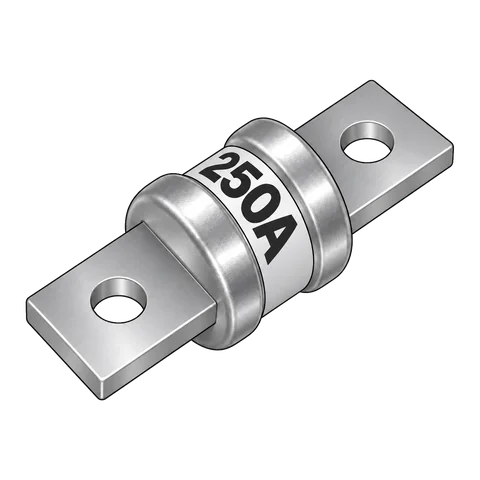
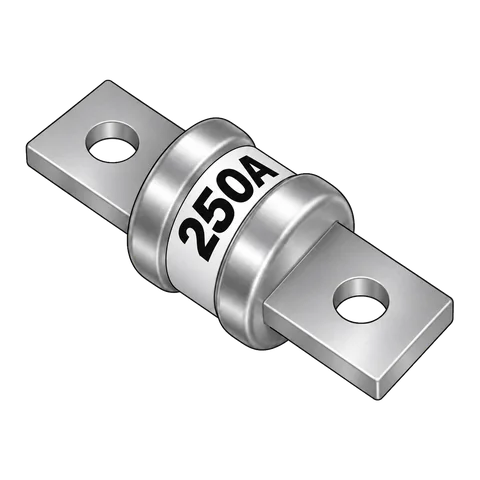
Einkaufsliste: Klasse-T-Sicherungen gedreht wie MEGA/MIDI (links oben nach rechts unten)

diff --git a/einkaufsliste.html b/einkaufsliste.html
@@ -106,7 +106,7 @@
         <div class="wrap">
           <h2>Sicherungen &amp; Halter</h2><p class="gruppe-text">Jede Leitung braucht ihre passende Sicherung.</p>
           <div class="teile-grid">
-            <article class="teil" id="l3a2c4132"><div class="teil-bild"><img src="assets/teile/l3a2c4132.webp?v=7906ca96" alt="MIDI-Sicherungshalter 4-fach mit Sammelschiene (Symbolbild)" width="480" height="480" loading="lazy"><span>Symbolbild</span></div><h3>MIDI-Sicherungshalter 4-fach mit Sammelschiene</h3><a class="product-btn" href="/go/l3a2c4132/amazon" target="_blank" rel="sponsored noopener">Bei Amazon ansehen*</a></article><article class="teil" id="l375ffab0"><div class="teil-bild"><img src="assets/teile/l375ffab0.webp?v=a38f9c33" alt="Sicherung 20 A MIDI (Symbolbild)" width="480" height="480" loading="lazy"><span>Symbolbild</span></div><h3>Sicherung 20 A MIDI</h3><a class="product-btn" href="/go/l375ffab0/amazon" target="_blank" rel="sponsored noopener">Bei Amazon ansehen*</a></article><article class="teil" id="laf25c308"><div class="teil-bild"><img src="assets/teile/laf25c308.webp?v=ab091605" alt="Sicherung 30 A MIDI (Symbolbild)" width="480" height="480" loading="lazy"><span>Symbolbild</span></div><h3>Sicherung 30 A MIDI</h3><a class="product-btn" href="/go/laf25c308/amazon" target="_blank" rel="sponsored noopener">Bei Amazon ansehen*</a></article><article class="teil" id="lafc8c0a5"><div class="teil-bild"><img src="assets/teile/lafc8c0a5.webp?v=e2af2a5c" alt="Sicherung 60 A MIDI (Symbolbild)" width="480" height="480" loading="lazy"><span>Symbolbild</span></div><h3>Sicherung 60 A MIDI</h3><a class="product-btn" href="/go/lafc8c0a5/amazon" target="_blank" rel="sponsored noopener">Bei Amazon ansehen*</a></article><article class="teil" id="l2a4fa993"><div class="teil-bild"><img src="assets/teile/l2a4fa993.webp?v=d04e5171" alt="Sicherung 80 A MIDI (Symbolbild)" width="480" height="480" loading="lazy"><span>Symbolbild</span></div><h3>Sicherung 80 A MIDI</h3><a class="product-btn" href="/go/l2a4fa993/amazon" target="_blank" rel="sponsored noopener">Bei Amazon ansehen*</a></article><article class="teil" id="l34955105"><div class="teil-bild"><img src="assets/teile/l34955105.webp?v=7470c8ed" alt="Sicherung 100 A MEGA (Symbolbild)" width="480" height="480" loading="lazy"><span>Symbolbild</span></div><h3>Sicherung 100 A MEGA</h3><a class="product-btn" href="/go/l34955105/amazon" target="_blank" rel="sponsored noopener">Bei Amazon ansehen*</a></article><article class="teil" id="l05bef916"><div class="teil-bild"><img src="assets/teile/l05bef916.webp?v=4ea3605b" alt="Sicherung 125 A MEGA (Symbolbild)" width="480" height="480" loading="lazy"><span>Symbolbild</span></div><h3>Sicherung 125 A MEGA</h3><a class="product-btn" href="/go/l05bef916/amazon" target="_blank" rel="sponsored noopener">Bei Amazon ansehen*</a></article><article class="teil" id="l0fc5cf12"><div class="teil-bild"><img src="assets/teile/l0fc5cf12.webp?v=c7ad8592" alt="Sicherung 150 A Klasse T (Symbolbild)" width="480" height="480" loading="lazy"><span>Symbolbild</span></div><h3>Sicherung 150 A Klasse T</h3><a class="product-btn" href="/go/l0fc5cf12/amazon" target="_blank" rel="sponsored noopener">Bei Amazon ansehen*</a></article><article class="teil" id="l9ac77371"><div class="teil-bild"><img src="assets/teile/l9ac77371.webp?v=2ceb6a5e" alt="Sicherung 150 A MEGA (Symbolbild)" width="480" height="480" loading="lazy"><span>Symbolbild</span></div><h3>Sicherung 150 A MEGA</h3><a class="product-btn" href="/go/l9ac77371/amazon" target="_blank" rel="sponsored noopener">Bei Amazon ansehen*</a></article><article class="teil" id="laf612964"><div class="teil-bild"><img src="assets/teile/laf612964.webp?v=8437ad65" alt="Sicherung 200 A MEGA (Symbolbild)" width="480" height="480" loading="lazy"><span>Symbolbild</span></div><h3>Sicherung 200 A MEGA</h3><a class="product-btn" href="/go/laf612964/amazon" target="_blank" rel="sponsored noopener">Bei Amazon ansehen*</a></article><article class="teil" id="l7317daa7"><div class="teil-bild"><img src="assets/teile/l7317daa7.webp?v=9c0c19fc" alt="Sicherung 225 A Klasse T (Symbolbild)" width="480" height="480" loading="lazy"><span>Symbolbild</span></div><h3>Sicherung 225 A Klasse T</h3><a class="product-btn" href="/go/l7317daa7/amazon" target="_blank" rel="sponsored noopener">Bei Amazon ansehen*</a></article><article class="teil" id="le561ec30"><div class="teil-bild"><img src="assets/teile/le561ec30.webp?v=99f95e50" alt="Sicherung 225 A MEGA (Symbolbild)" width="480" height="480" loading="lazy"><span>Symbolbild</span></div><h3>Sicherung 225 A MEGA</h3><a class="product-btn" href="/go/le561ec30/amazon" target="_blank" rel="sponsored noopener">Bei Amazon ansehen*</a></article><article class="teil" id="lfc280a8e"><div class="teil-bild"><img src="assets/teile/lfc280a8e.webp?v=1f402ada" alt="Sicherung 250 A Klasse T (Symbolbild)" width="480" height="480" loading="lazy"><span>Symbolbild</span></div><h3>Sicherung 250 A Klasse T</h3><a class="product-btn" href="/go/lfc280a8e/amazon" target="_blank" rel="sponsored noopener">Bei Amazon ansehen*</a></article><article class="teil" id="lb0905d3d"><div class="teil-bild"><img src="assets/teile/lb0905d3d.webp?v=b5d096d7" alt="Sicherung 250 A MEGA (Symbolbild)" width="480" height="480" loading="lazy"><span>Symbolbild</span></div><h3>Sicherung 250 A MEGA</h3><a class="product-btn" href="/go/lb0905d3d/amazon" target="_blank" rel="sponsored noopener">Bei Amazon ansehen*</a></article><article class="teil" id="l9b912eab"><div class="teil-bild"><img src="assets/teile/l9b912eab.webp?v=06b2e17e" alt="Sicherung 300 A MEGA (Symbolbild)" width="480" height="480" loading="lazy"><span>Symbolbild</span></div><h3>Sicherung 300 A MEGA</h3><a class="product-btn" href="/go/l9b912eab/amazon" target="_blank" rel="sponsored noopener">Bei Amazon ansehen*</a></article><article class="teil" id="lf3bb8b84"><div class="teil-bild"><img src="assets/teile/lf3bb8b84.webp?v=9d013fbc" alt="Sicherung 350 A Klasse T (Symbolbild)" width="480" height="480" loading="lazy"><span>Symbolbild</span></div><h3>Sicherung 350 A Klasse T</h3><a class="product-btn" href="/go/lf3bb8b84/amazon" target="_blank" rel="sponsored noopener">Bei Amazon ansehen*</a></article><article class="teil" id="lad38f99a"><div class="teil-bild"><img src="assets/teile/lad38f99a.webp?v=d82100f2" alt="Sicherung Klasse-T-Halter bis 200 A (Symbolbild)" width="480" height="480" loading="lazy"><span>Symbolbild</span></div><h3>Sicherung Klasse-T-Halter bis 200 A</h3><a class="product-btn" href="/go/lad38f99a/amazon" target="_blank" rel="sponsored noopener">Bei Amazon ansehen*</a></article><article class="teil" id="l50ed28ad"><div class="teil-bild"><img src="assets/teile/l50ed28ad.webp?v=d82100f2" alt="Sicherung Klasse-T-Sicherungshalter (Symbolbild)" width="480" height="480" loading="lazy"><span>Symbolbild</span></div><h3>Sicherung Klasse-T-Sicherungshalter</h3><a class="product-btn" href="/go/l50ed28ad/amazon" target="_blank" rel="sponsored noopener">Bei Amazon ansehen*</a></article><article class="teil" id="l4f0e743e"><div class="teil-bild"><img src="assets/teile/l4f0e743e.webp?v=aafb087d" alt="Sicherung MEGA-Sicherungshalter (Symbolbild)" width="480" height="480" loading="lazy"><span>Symbolbild</span></div><h3>Sicherung MEGA-Sicherungshalter</h3><a class="product-btn" href="/go/l4f0e743e/amazon" target="_blank" rel="sponsored noopener">Bei Amazon ansehen*</a></article><article class="teil" id="ld64c7f2d"><div class="teil-bild"><img src="assets/teile/ld64c7f2d.webp?v=f7b561c2" alt="Sicherung MIDI-Sicherungshalter (Symbolbild)" width="480" height="480" loading="lazy"><span>Symbolbild</span></div><h3>Sicherung MIDI-Sicherungshalter</h3><a class="product-btn" href="/go/ld64c7f2d/amazon" target="_blank" rel="sponsored noopener">Bei Amazon ansehen*</a></article>
+            <article class="teil" id="l3a2c4132"><div class="teil-bild"><img src="assets/teile/l3a2c4132.webp?v=7906ca96" alt="MIDI-Sicherungshalter 4-fach mit Sammelschiene (Symbolbild)" width="480" height="480" loading="lazy"><span>Symbolbild</span></div><h3>MIDI-Sicherungshalter 4-fach mit Sammelschiene</h3><a class="product-btn" href="/go/l3a2c4132/amazon" target="_blank" rel="sponsored noopener">Bei Amazon ansehen*</a></article><article class="teil" id="l375ffab0"><div class="teil-bild"><img src="assets/teile/l375ffab0.webp?v=a38f9c33" alt="Sicherung 20 A MIDI (Symbolbild)" width="480" height="480" loading="lazy"><span>Symbolbild</span></div><h3>Sicherung 20 A MIDI</h3><a class="product-btn" href="/go/l375ffab0/amazon" target="_blank" rel="sponsored noopener">Bei Amazon ansehen*</a></article><article class="teil" id="laf25c308"><div class="teil-bild"><img src="assets/teile/laf25c308.webp?v=ab091605" alt="Sicherung 30 A MIDI (Symbolbild)" width="480" height="480" loading="lazy"><span>Symbolbild</span></div><h3>Sicherung 30 A MIDI</h3><a class="product-btn" href="/go/laf25c308/amazon" target="_blank" rel="sponsored noopener">Bei Amazon ansehen*</a></article><article class="teil" id="lafc8c0a5"><div class="teil-bild"><img src="assets/teile/lafc8c0a5.webp?v=e2af2a5c" alt="Sicherung 60 A MIDI (Symbolbild)" width="480" height="480" loading="lazy"><span>Symbolbild</span></div><h3>Sicherung 60 A MIDI</h3><a class="product-btn" href="/go/lafc8c0a5/amazon" target="_blank" rel="sponsored noopener">Bei Amazon ansehen*</a></article><article class="teil" id="l2a4fa993"><div class="teil-bild"><img src="assets/teile/l2a4fa993.webp?v=d04e5171" alt="Sicherung 80 A MIDI (Symbolbild)" width="480" height="480" loading="lazy"><span>Symbolbild</span></div><h3>Sicherung 80 A MIDI</h3><a class="product-btn" href="/go/l2a4fa993/amazon" target="_blank" rel="sponsored noopener">Bei Amazon ansehen*</a></article><article class="teil" id="l34955105"><div class="teil-bild"><img src="assets/teile/l34955105.webp?v=7470c8ed" alt="Sicherung 100 A MEGA (Symbolbild)" width="480" height="480" loading="lazy"><span>Symbolbild</span></div><h3>Sicherung 100 A MEGA</h3><a class="product-btn" href="/go/l34955105/amazon" target="_blank" rel="sponsored noopener">Bei Amazon ansehen*</a></article><article class="teil" id="l05bef916"><div class="teil-bild"><img src="assets/teile/l05bef916.webp?v=4ea3605b" alt="Sicherung 125 A MEGA (Symbolbild)" width="480" height="480" loading="lazy"><span>Symbolbild</span></div><h3>Sicherung 125 A MEGA</h3><a class="product-btn" href="/go/l05bef916/amazon" target="_blank" rel="sponsored noopener">Bei Amazon ansehen*</a></article><article class="teil" id="l0fc5cf12"><div class="teil-bild"><img src="assets/teile/l0fc5cf12.webp?v=1a565ca0" alt="Sicherung 150 A Klasse T (Symbolbild)" width="480" height="480" loading="lazy"><span>Symbolbild</span></div><h3>Sicherung 150 A Klasse T</h3><a class="product-btn" href="/go/l0fc5cf12/amazon" target="_blank" rel="sponsored noopener">Bei Amazon ansehen*</a></article><article class="teil" id="l9ac77371"><div class="teil-bild"><img src="assets/teile/l9ac77371.webp?v=2ceb6a5e" alt="Sicherung 150 A MEGA (Symbolbild)" width="480" height="480" loading="lazy"><span>Symbolbild</span></div><h3>Sicherung 150 A MEGA</h3><a class="product-btn" href="/go/l9ac77371/amazon" target="_blank" rel="sponsored noopener">Bei Amazon ansehen*</a></article><article class="teil" id="laf612964"><div class="teil-bild"><img src="assets/teile/laf612964.webp?v=8437ad65" alt="Sicherung 200 A MEGA (Symbolbild)" width="480" height="480" loading="lazy"><span>Symbolbild</span></div><h3>Sicherung 200 A MEGA</h3><a class="product-btn" href="/go/laf612964/amazon" target="_blank" rel="sponsored noopener">Bei Amazon ansehen*</a></article><article class="teil" id="l7317daa7"><div class="teil-bild"><img src="assets/teile/l7317daa7.webp?v=7ffeb17a" alt="Sicherung 225 A Klasse T (Symbolbild)" width="480" height="480" loading="lazy"><span>Symbolbild</span></div><h3>Sicherung 225 A Klasse T</h3><a class="product-btn" href="/go/l7317daa7/amazon" target="_blank" rel="sponsored noopener">Bei Amazon ansehen*</a></article><article class="teil" id="le561ec30"><div class="teil-bild"><img src="assets/teile/le561ec30.webp?v=99f95e50" alt="Sicherung 225 A MEGA (Symbolbild)" width="480" height="480" loading="lazy"><span>Symbolbild</span></div><h3>Sicherung 225 A MEGA</h3><a class="product-btn" href="/go/le561ec30/amazon" target="_blank" rel="sponsored noopener">Bei Amazon ansehen*</a></article><article class="teil" id="lfc280a8e"><div class="teil-bild"><img src="assets/teile/lfc280a8e.webp?v=be3d97ff" alt="Sicherung 250 A Klasse T (Symbolbild)" width="480" height="480" loading="lazy"><span>Symbolbild</span></div><h3>Sicherung 250 A Klasse T</h3><a class="product-btn" href="/go/lfc280a8e/amazon" target="_blank" rel="sponsored noopener">Bei Amazon ansehen*</a></article><article class="teil" id="lb0905d3d"><div class="teil-bild"><img src="assets/teile/lb0905d3d.webp?v=b5d096d7" alt="Sicherung 250 A MEGA (Symbolbild)" width="480" height="480" loading="lazy"><span>Symbolbild</span></div><h3>Sicherung 250 A MEGA</h3><a class="product-btn" href="/go/lb0905d3d/amazon" target="_blank" rel="sponsored noopener">Bei Amazon ansehen*</a></article><article class="teil" id="l9b912eab"><div class="teil-bild"><img src="assets/teile/l9b912eab.webp?v=06b2e17e" alt="Sicherung 300 A MEGA (Symbolbild)" width="480" height="480" loading="lazy"><span>Symbolbild</span></div><h3>Sicherung 300 A MEGA</h3><a class="product-btn" href="/go/l9b912eab/amazon" target="_blank" rel="sponsored noopener">Bei Amazon ansehen*</a></article><article class="teil" id="lf3bb8b84"><div class="teil-bild"><img src="assets/teile/lf3bb8b84.webp?v=d3d69b73" alt="Sicherung 350 A Klasse T (Symbolbild)" width="480" height="480" loading="lazy"><span>Symbolbild</span></div><h3>Sicherung 350 A Klasse T</h3><a class="product-btn" href="/go/lf3bb8b84/amazon" target="_blank" rel="sponsored noopener">Bei Amazon ansehen*</a></article><article class="teil" id="lad38f99a"><div class="teil-bild"><img src="assets/teile/lad38f99a.webp?v=d82100f2" alt="Sicherung Klasse-T-Halter bis 200 A (Symbolbild)" width="480" height="480" loading="lazy"><span>Symbolbild</span></div><h3>Sicherung Klasse-T-Halter bis 200 A</h3><a class="product-btn" href="/go/lad38f99a/amazon" target="_blank" rel="sponsored noopener">Bei Amazon ansehen*</a></article><article class="teil" id="l50ed28ad"><div class="teil-bild"><img src="assets/teile/l50ed28ad.webp?v=d82100f2" alt="Sicherung Klasse-T-Sicherungshalter (Symbolbild)" width="480" height="480" loading="lazy"><span>Symbolbild</span></div><h3>Sicherung Klasse-T-Sicherungshalter</h3><a class="product-btn" href="/go/l50ed28ad/amazon" target="_blank" rel="sponsored noopener">Bei Amazon ansehen*</a></article><article class="teil" id="l4f0e743e"><div class="teil-bild"><img src="assets/teile/l4f0e743e.webp?v=aafb087d" alt="Sicherung MEGA-Sicherungshalter (Symbolbild)" width="480" height="480" loading="lazy"><span>Symbolbild</span></div><h3>Sicherung MEGA-Sicherungshalter</h3><a class="product-btn" href="/go/l4f0e743e/amazon" target="_blank" rel="sponsored noopener">Bei Amazon ansehen*</a></article><article class="teil" id="ld64c7f2d"><div class="teil-bild"><img src="assets/teile/ld64c7f2d.webp?v=f7b561c2" alt="Sicherung MIDI-Sicherungshalter (Symbolbild)" width="480" height="480" loading="lazy"><span>Symbolbild</span></div><h3>Sicherung MIDI-Sicherungshalter</h3><a class="product-btn" href="/go/ld64c7f2d/amazon" target="_blank" rel="sponsored noopener">Bei Amazon ansehen*</a></article>
           </div>
         </div>
       </section>
